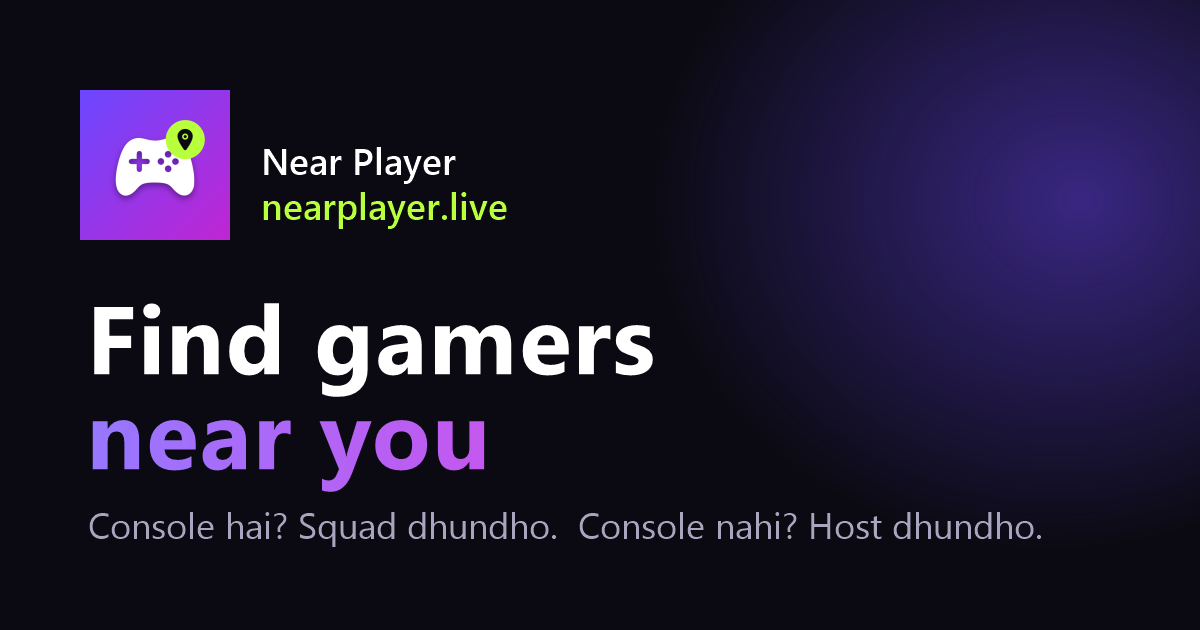
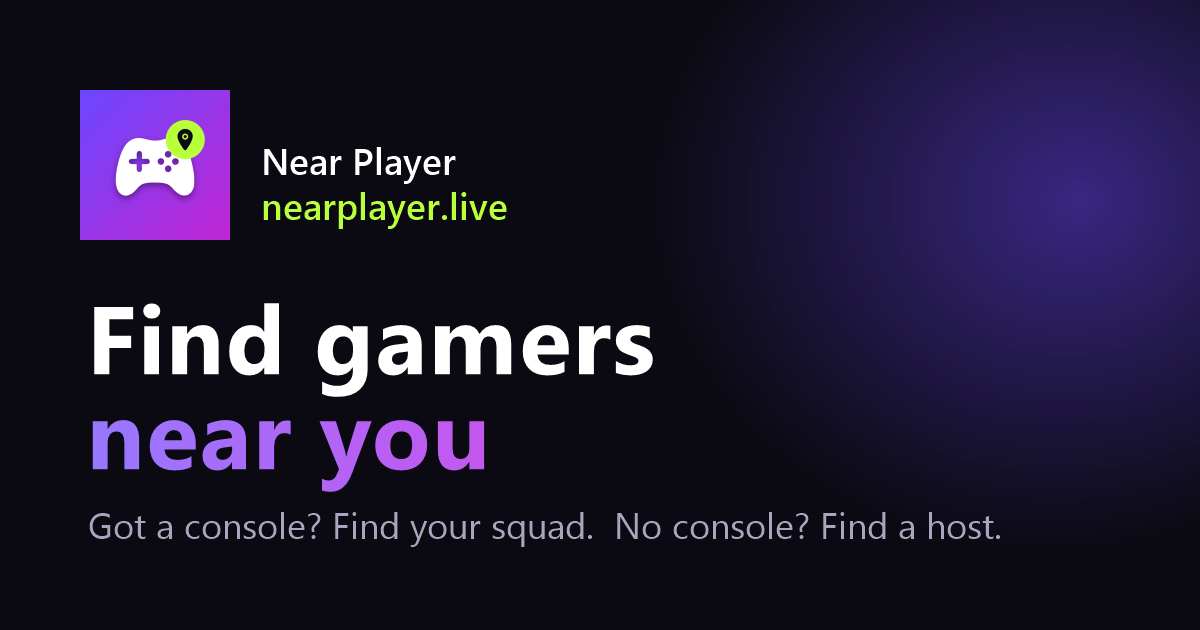
English-only copy and share image

Changed region(s): [[0.4008, 0.8143, 0.8633, 0.8746], [0.0925, 0.8143, 0.37, 0.8746]]

diff --git a/index.html b/index.html
@@ -4,7 +4,7 @@
   <meta charset="utf-8">
   <meta name="viewport" content="width=device-width, initial-scale=1">
   <title>Near Player · Find gamers near you</title>
-  <meta name="description" content="Near Player is a free app to find gamers near you. Console hai? Squad dhundho. Console nahi? Host dhundho. Host or join sessions at a café, at home or online, with verified players.">
+  <meta name="description" content="Near Player is a free app to find gamers near you. Got a console? Find your squad. No console? Find a host. Host or join sessions at a café, at home or online, with verified players.">
   <link rel="canonical" href="https://nearplayer.live/">
   <link rel="icon" href="/favicon.png">
   <link rel="apple-touch-icon" href="/icon.png">
@@ -12,7 +12,7 @@
   <meta property="og:type" content="website">
   <meta property="og:site_name" content="Near Player">
   <meta property="og:title" content="Near Player · Find gamers near you">
-  <meta property="og:description" content="Console hai? Squad dhundho. Console nahi? Host dhundho. Free, 18+, verified players.">
+  <meta property="og:description" content="Got a console? Find your squad. No console? Find a host. Free, 18+, verified players.">
   <meta property="og:url" content="https://nearplayer.live/">
   <meta property="og:image" content="https://nearplayer.live/og.png">
   <meta name="twitter:card" content="summary_large_image">
@@ -36,7 +36,7 @@
       <div class="hero-copy">
         <span class="kicker">🎮 Free · 18+ · Made in India</span>
         <h1>Find gamers <span>near you</span></h1>
-        <p class="lead">Console hai? Squad dhundho. Console nahi? Host dhundho.<br>Meet people who play the same games, at a café, at home or online.</p>
+        <p class="lead">Got a console? Find your squad. No console? Find a host.<br>Meet people who play the same games, at a café, at home or online.</p>
         <div class="cta-row">
           <a class="btn" href="https://app.nearplayer.live/">Open the web app</a>
           <a class="btn ghost" href="#download">Get it on Android</a>
@@ -68,12 +68,12 @@
     <section class="wrap wide two-up">
       <div class="side host-side">
         <span class="emoji">🕹</span>
-        <h2>Console hai?</h2>
+        <h2>Got a console?</h2>
         <p>Host a session at your place, a gaming café or online. Pick the game, the time and how many players. Approve who joins.</p>
       </div>
       <div class="side join-side">
         <span class="emoji">🙋</span>
-        <h2>Console nahi?</h2>
+        <h2>No console?</h2>
         <p>Find hosts within a few km, ask to join their setup or session, and play without buying a console.</p>
       </div>
     </section>
